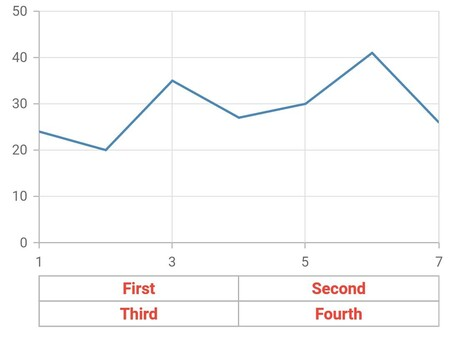
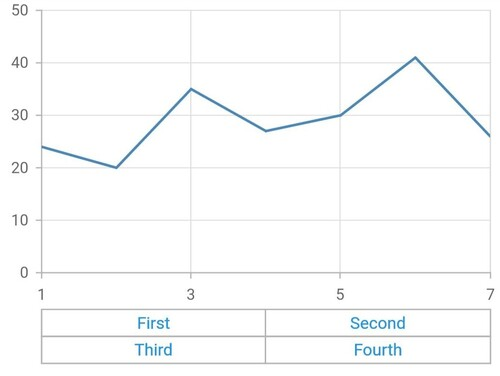
FLUT-6024-[feature][flutter]: Changed dynamic from content

diff --git a/Flutter/cartesian-charts/callbacks.md b/Flutter/cartesian-charts/callbacks.md
@@ -1012,13 +1012,13 @@ Defaults to `null`.
       ];
       return Container(
         child: SfCartesianChart(
-          series: <ColumnSeries<ChartData, num>>[
-            ColumnSeries<ChartData, num>(
+          series: <ColumnSeries<ChartData, int>>[
+            ColumnSeries<ChartData, int>(
               dataSource: chartData,
               xValueMapper: (ChartData data, _) => data.x,
               yValueMapper: (ChartData data, _) => data.y,
-              onCreateRenderer: (ChartSeries<dynamic, dynamic> series) {
-                return _CustomColumnSeriesRenderer(series as ColumnSeries<dynamic, dynamic>);
+              onCreateRenderer: (ChartSeries<ChartData, int> series) {
+                return _CustomColumnSeriesRenderer(series as ColumnSeries<ChartData, int>);
               }
             ),
           ],
@@ -1029,7 +1029,7 @@ Defaults to `null`.
     class _CustomColumnSeriesRenderer extends ColumnSeriesRenderer {
       _CustomColumnSeriesRenderer(this.series);
 
-      final ColumnSeries<dynamic, dynamic> series;
+      final ColumnSeries<ChartData, int> series;
       @override
       ChartSegment createSegment() {
         return _ColumnCustomPainter(series);
@@ -1039,7 +1039,7 @@ Defaults to `null`.
     class _ColumnCustomPainter extends ColumnSegment {
       _ColumnCustomPainter(this.series);
 
-      final ColumnSeries<dynamic, dynamic> series;
+      final ColumnSeries<ChartData, int> series;
       @override
       int get currentSegmentIndex => super.currentSegmentIndex!;
 

diff --git a/Flutter/cartesian-charts/axis-customization.md b/Flutter/cartesian-charts/axis-customization.md
@@ -1651,9 +1651,8 @@ The text style of the multi-level label like color, font size, font-weight, etc 
           primaryXAxis: NumericAxis(
             multiLevelLabelStyle: MultiLevelLabelStyle(
               textStyle: TextStyle(
-                  fontSize: 14,
-                  fontWeight: FontWeight.bold,
-                  color: Colors.red)
+                  fontSize: 1,
+                  color: Colors.blue)
             ),
             multiLevelLabels: const <NumericMultiLevelLabel>[
               NumericMultiLevelLabel(
